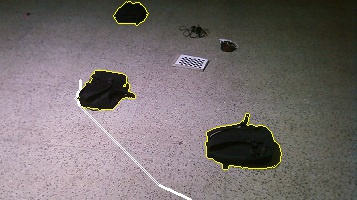
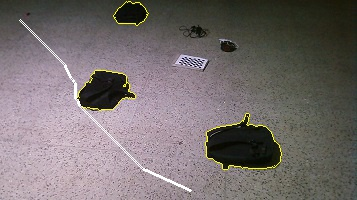
A-star Output Images updated

diff --git a/A-star.py b/A-star.py
@@ -124,9 +124,9 @@ def main():
                 cv2.drawContours(img, [cnt],-1, [0, 255, 255])
                 cv2.fillConvexPoly(arr, cnt, [255, 255, 255])
                 final_contours.append(cnt)
-        sx = 80 # raw_input("Enter source and destination Coordinates")
-        sy = 80  # raw_input()
-        dx = 199   # raw_input()
+        sx = 20 # raw_input("Enter source and destination Coordinates")
+        sy = 20  # raw_input()
+        dx = 190   # raw_input()
         dy = 190  # raw_input()
 
        # s = time.clock()
